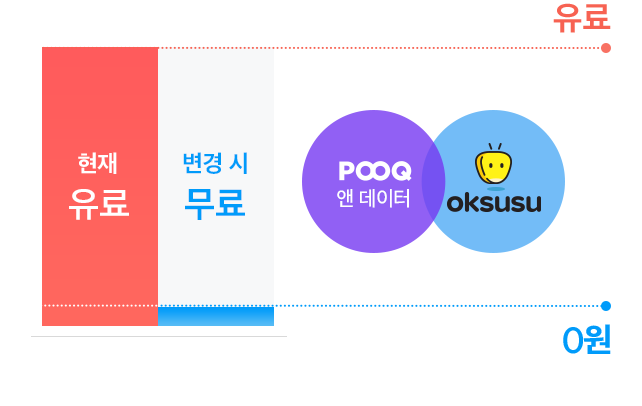
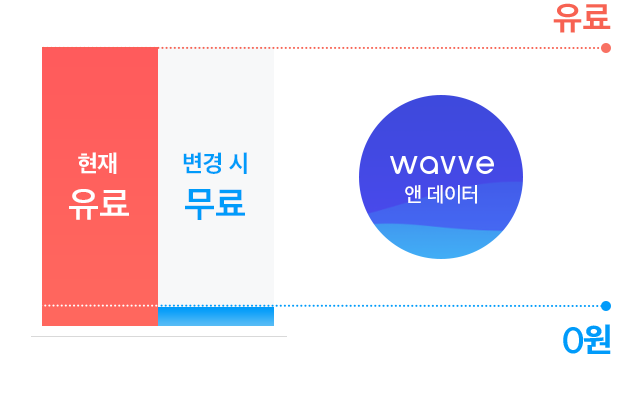
Web Contents Merge FROM a1a619846f7

Changed region(s): [[0.4673, 0.2365, 0.9034, 0.6502]]

diff --git a/src/client/web-contents/html/sprint/HO_01_01_01_new.html b/src/client/web-contents/html/sprint/HO_01_01_01_new.html
@@ -253,7 +253,7 @@
                             현재 <em class="em">유료 동영상 서비스</em>를 이용하고 계시네요.
                         </p>
                         <div class="plan-img-wrap">
-                            <img src="/img/t_myPlan/item_plan_img02.png" alt="현재 유지시 유료 추천 요금제로 변경시 무료(POOQ 앤 테이터, oksusu) ">
+                            <img src="/img/t_myPlan/item_plan_img02.png" alt="현재 유지시 유료 추천 요금제로 변경시 무료(wavve 앤 테이터 무료) "><!-- 190916 [OP002-3769] 수정_01 -->
                             <!-- 190830 [OP002-2006] 수정04  -->
                             <ul class="gh-comment">
                                 <li class="blue article line-block"><span class="article-txt">추천요금제로 변경 시</span></li>
@@ -263,12 +263,14 @@
                         </div>
                     </div><!-- //plan-item -->
                     <div class="plan-item">
+                        <!-- 190916 [OP002-3769] 수정_03 -->
                         <p class="comment">
                             <span class="cate">영상</span>
-                            실시간 TV, 영화, 지상파 VOD 22만편을 <em class="em">무료로 제공</em>합니다.
+                            실시간 TV, 영화, 지상파 VOD 20만편을 <em class="em">무료로 제공</em>합니다.
                         </p>
+                        <!-- //190916 [OP002-3769] 수정_03 -->
                         <div class="plan-img-wrap">
-                            <img src="/img/t_myPlan/item_plan_img03.png" alt="현재 유지시 유료 추천 요금제로 변경시 무료(POOQ 앤 테이터, oksusu) ">
+                            <img src="/img/t_myPlan/item_plan_img03.png" alt="현재 유지시 유료 추천 요금제로 변경시 무료(wavve 앤 테이터 월 9,900원) "><!-- 190916 [OP002-3769] 수정_02 -->
                         </div>
                     </div><!-- //plan-item -->
                     <div class="plan-item" >
@@ -465,6 +467,13 @@
                                 <li class="green article"><span class="article-txt"><span class="bene-item">씨유</span><span class="price">100,200원</span></span></li>
                                 <li class="purple article"><span class="article-txt"><span class="bene-item">기타</span><span class="price">10,200원</span></span></li>
                             </ul><!-- //190830 [OP002-2006] 수정12 -->
+                            <!-- 190916 [OP002-3769] 수정_04 -->
+                            <div class="cont-noti mt12">
+                                <ul class="bullet-type">
+                                    <li class="tod-txcolor4">멤버십 그래프 백분율의 경우 소수점 비율로 인해 금액 환산 시 오차가 있을 수 있습니다.</li>
+                                </ul>
+                            </div>
+                            <!-- //190916 [OP002-3769] 수정_04 -->
                         </div>
                     </div><!-- //plan-item -->
                 </div><!-- //cont-box -->

diff --git a/src/client/web-contents/html/sprint/HO_01_01_01_new_case1.html b/src/client/web-contents/html/sprint/HO_01_01_01_new_case1.html
@@ -265,7 +265,7 @@
                             현재 <em class="em">유료 동영상 서비스</em>를 이용하고 계시네요.
                         </p>
                         <div class="plan-img-wrap">
-                            <img src="/img/t_myPlan/item_plan_img02.png" alt="현재 유지시 유료 추천 요금제로 변경시 무료(POOQ 앤 테이터, oksusu) ">
+                            <img src="/img/t_myPlan/item_plan_img02.png" alt="현재 유지시 유료 추천 요금제로 변경시 무료(wavve 앤 테이터 무료) "><!-- 190916 [OP002-3769] 수정_01 -->
                             <!-- 190830 [OP002-2006] 수정04  -->
                             <ul class="gh-comment">
                                 <li class="blue article line-block"><span class="article-txt">추천요금제로 변경 시</span></li>
@@ -275,12 +275,14 @@
                         </div>
                     </div><!-- //plan-item -->
                     <div class="plan-item">
+                        <!-- 190916 [OP002-3769] 수정_03 -->
                         <p class="comment">
                             <span class="cate">영상</span>
-                            실시간 TV, 영화, 지상파 VOD 22만편을 <em class="em">무료로 제공</em>합니다.
+                            실시간 TV, 영화, 지상파 VOD 20만편을 <em class="em">무료로 제공</em>합니다.
                         </p>
+                        <!-- //190916 [OP002-3769] 수정_03 -->
                         <div class="plan-img-wrap">
-                            <img src="/img/t_myPlan/item_plan_img03.png" alt="현재 유지시 유료 추천 요금제로 변경시 무료(POOQ 앤 테이터, oksusu) ">
+                            <img src="/img/t_myPlan/item_plan_img03.png" alt="현재 유지시 유료 추천 요금제로 변경시 무료(wavve 앤 테이터 월 9,900원) "><!-- 190916 [OP002-3769] 수정_02 -->
                         </div>
                     </div><!-- //plan-item -->
                     <div class="plan-item" >
@@ -477,6 +479,13 @@
                                 <li class="green article"><span class="article-txt"><span class="bene-item">씨유</span><span class="price">100,200원</span></span></li>
                                 <li class="purple article"><span class="article-txt"><span class="bene-item">기타</span><span class="price">10,200원</span></span></li>
                             </ul><!-- //190830 [OP002-2006] 수정12 -->
+                            <!-- 190916 [OP002-3769] 수정_04 -->
+                            <div class="cont-noti mt12">
+                                <ul class="bullet-type">
+                                    <li class="tod-txcolor4">멤버십 그래프 백분율의 경우 소수점 비율로 인해 금액 환산 시 오차가 있을 수 있습니다.</li>
+                                </ul>
+                            </div>
+                            <!-- //190916 [OP002-3769] 수정_04 -->
                         </div>
                     </div><!-- //plan-item -->
                 </div><!-- //cont-box -->
